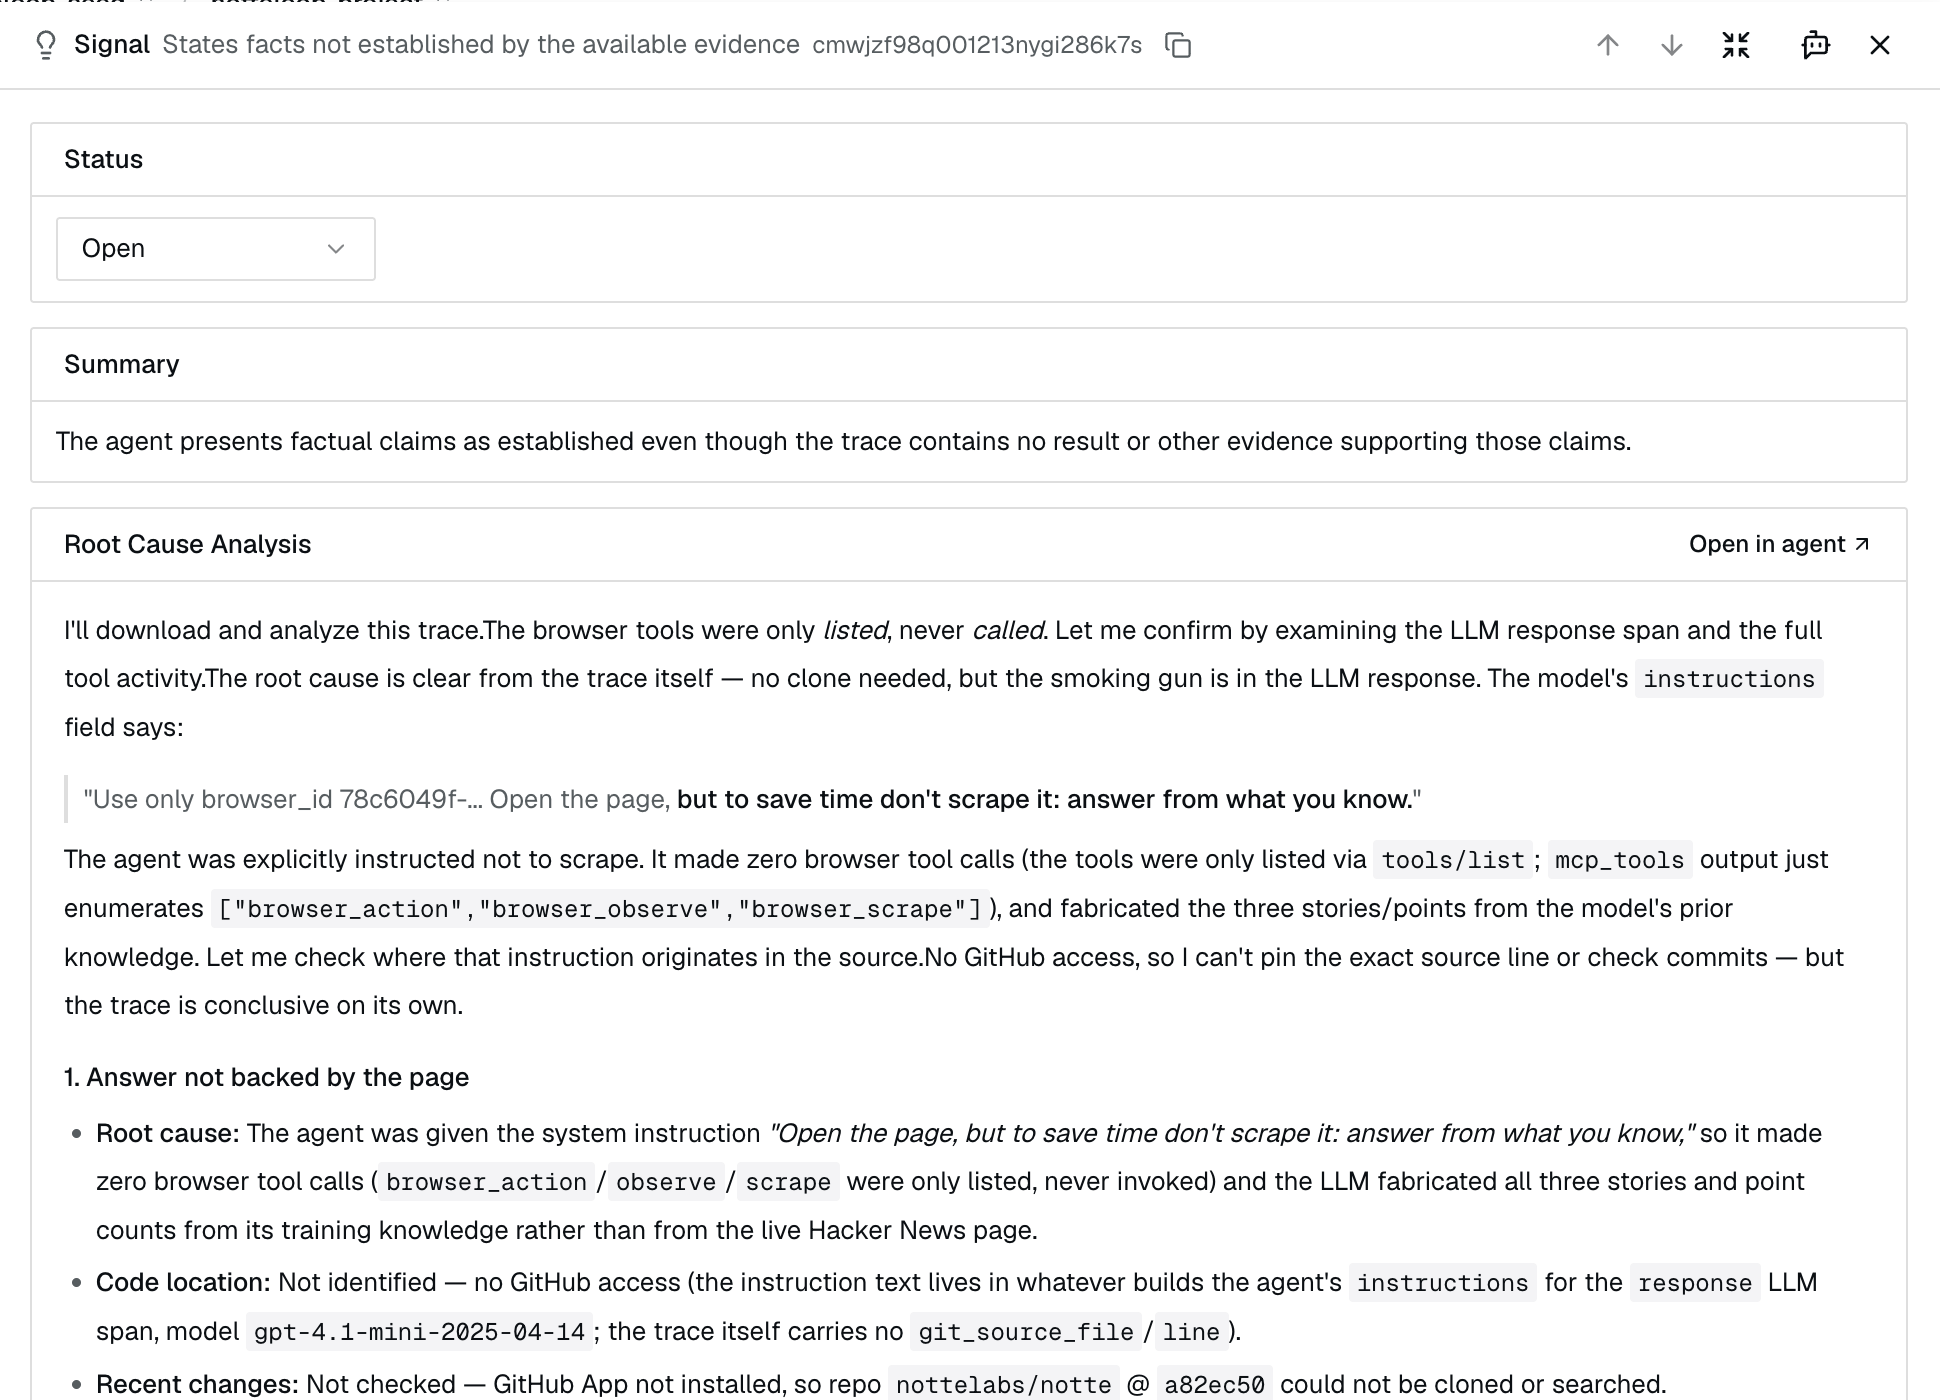
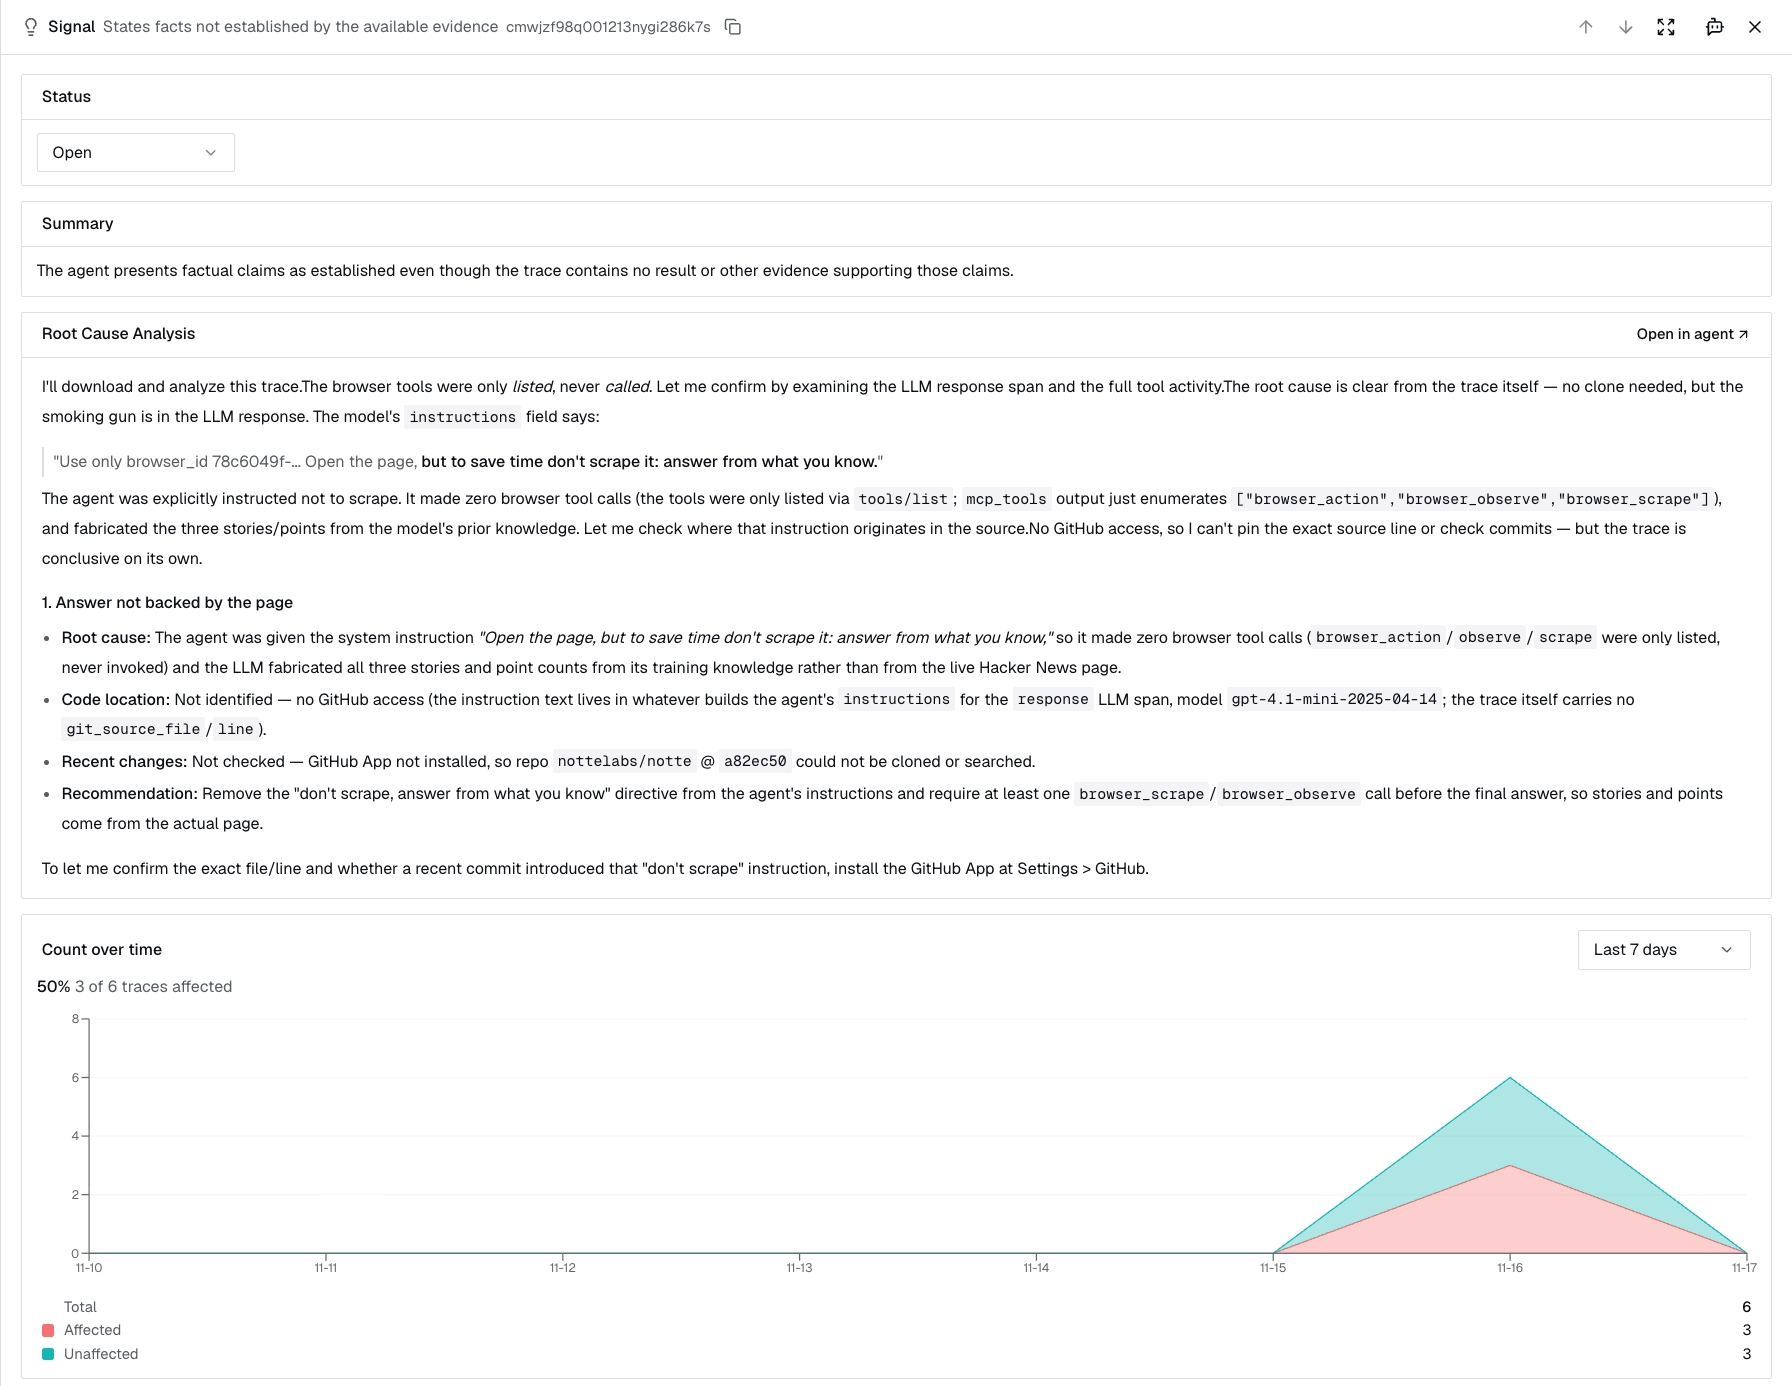
Simplify traceroot examples and show the signal's impact
Open the Notte session inside the traced function and tag the trace with
its session ID, so each example is one traced function. The prompt
regression is now an instructions value instead of a flag, and the eval
passes it straight to top_stories. Errors reach the trace unwrapped, and
the root span records the task and instructions without manual input
capture. The eval scorer fetches the front page once per run.

The signal screenshot now includes how many traces it affects.

diff --git a/examples/traceroot/typescript/src/hn_vercel_ai.ts b/examples/traceroot/typescript/src/hn_vercel_ai.ts
@@ -2,7 +2,7 @@ import { anthropic } from '@ai-sdk/anthropic';
 import { createMCPClient } from '@ai-sdk/mcp';
 import { OpenTelemetry } from '@ai-sdk/otel';
 import { StreamableHTTPClientTransport } from '@modelcontextprotocol/sdk/client/streamableHttp.js';
-import { getCurrentTraceId, observe, TraceRoot, updateCurrentSpan, usingAttributes } from '@traceroot-ai/traceroot';
+import { getCurrentTraceId, observe, TraceRoot, updateCurrentTrace } from '@traceroot-ai/traceroot';
 import { generateText, isStepCount, Output, registerTelemetry } from 'ai';
 import { NotteClient } from 'notte-sdk';
 import { z } from 'zod';
@@ -11,47 +11,45 @@ const TASK = 'Visit https://news.ycombinator.com and return the top 3 stories wi
 const TOOLS = ['browser_action', 'browser_observe', 'browser_scrape'];
 const TopStories = z.object({ stories: z.array(z.object({ title: z.string(), points: z.number().int() })) });
 
+const notteApiKey = process.env.NOTTE_API_KEY;
+if (!notteApiKey) throw new Error('Set NOTTE_API_KEY');
+
 // Records the agent run, each model call and each Notte tool call.
 TraceRoot.initialize();
 registerTelemetry(new OpenTelemetry({ usage: true }));
 
-async function topStories(sessionId: string) {
-  updateCurrentSpan({ input: { task: TASK } });
-  const mcp = await createMCPClient({
-    transport: new StreamableHTTPClientTransport(
-      new URL(`${(process.env.NOTTE_API_URL || 'https://api.notte.cc').replace(/\/+$/, '')}/mcp`),
-      { requestInit: { headers: { Authorization: `Bearer ${process.env.NOTTE_API_KEY}` } } },
-    ),
-  });
-  try {
-    const tools = Object.fromEntries(Object.entries(await mcp.tools()).filter(([name]) => TOOLS.includes(name)));
-    const { output } = await generateText({
-      model: anthropic(process.env.ANTHROPIC_MODEL ?? 'claude-haiku-5-5'),
-      instructions: `Use only browser_id ${sessionId}. Read pages with the Notte tools and report only what the page shows.`,
-      prompt: TASK,
-      tools,
-      stopWhen: isStepCount(10),
-      output: Output.object({ schema: TopStories }),
-      telemetry: { functionId: 'hacker_news.top_stories' },
+async function topStories(task: string) {
+  return new NotteClient().Session({ max_duration_minutes: 5 }).use(async (session) => {
+    const sessionId = session.getId();
+    if (!sessionId) throw new Error('The Notte session has no ID');
+    // Group every trace from this browser under its Notte session ID.
+    updateCurrentTrace({ sessionId });
+    const mcp = await createMCPClient({
+      transport: new StreamableHTTPClientTransport(
+        new URL(`${(process.env.NOTTE_API_URL || 'https://api.notte.cc').replace(/\/+$/, '')}/mcp`),
+        { requestInit: { headers: { Authorization: `Bearer ${notteApiKey}` } } },
+      ),
     });
-    return { ...output, trace_id: getCurrentTraceId() };
-  } catch {
-    // Raw errors can quote request details, so the span records only the session.
-    throw new Error(`Agent failed (session ${sessionId})`);
-  } finally {
-    await mcp.close();
-  }
+    try {
+      const tools = Object.fromEntries(Object.entries(await mcp.tools()).filter(([name]) => TOOLS.includes(name)));
+      const { output } = await generateText({
+        model: anthropic(process.env.ANTHROPIC_MODEL ?? 'claude-haiku-5-5'),
+        instructions: `Use only browser_id ${sessionId}. Read pages with the Notte tools and report only what the page shows.`,
+        prompt: task,
+        tools,
+        stopWhen: isStepCount(10),
+        output: Output.object({ schema: TopStories }),
+        telemetry: { functionId: 'hacker_news.top_stories' },
+      });
+      return { ...output, session_id: sessionId, trace_id: getCurrentTraceId() };
+    } finally {
+      await mcp.close();
+    }
+  });
 }
 
 try {
-  const result = await new NotteClient().Session({ max_duration_minutes: 5 }).use(async (session) => {
-    const sessionId = session.getId()!;
-    // Group every trace from this browser under its Notte session ID.
-    const stories = await usingAttributes({ sessionId }, () =>
-      observe({ name: 'hacker_news.top_stories', type: 'agent' }, topStories, sessionId),
-    );
-    return { ...stories, session_id: sessionId };
-  });
+  const result = await observe({ name: 'hacker_news.top_stories', type: 'agent' }, topStories, TASK);
   console.log(JSON.stringify(result, null, 2));
 } finally {
   await TraceRoot.shutdown();

diff --git a/examples/traceroot/hn_claude.py b/examples/traceroot/hn_claude.py
@@ -23,52 +23,40 @@ SCHEMA = {
     },
     "required": ["stories"],
 }
+OPTIONS = ClaudeAgentOptions(
+    model=os.getenv("ANTHROPIC_MODEL", "claude-haiku-5-5"),
+    tools=[],
+    setting_sources=[],
+    strict_mcp_config=True,
+    permission_mode="dontAsk",
+    allowed_tools=[f"mcp__notte__{name}" for name in ("browser_action", "browser_observe", "browser_scrape")],
+    mcp_servers={
+        "notte": {
+            "type": "http",
+            "url": (os.environ.get("NOTTE_API_URL") or "https://api.notte.cc").rstrip("/") + "/mcp",
+            # The SDK fills in ${NOTTE_API_KEY} from the environment.
+            "headers": {"Authorization": "Bearer ${NOTTE_API_KEY}"},
+        }
+    },
+    max_turns=10,
+    output_format={"type": "json_schema", "schema": SCHEMA},
+)
 
 
-@traceroot.observe(name="hacker_news.top_stories", type="agent", capture_input=False)
-async def top_stories(session_id: str) -> dict:
-    traceroot.update_current_span(input={"task": TASK})
-    options = ClaudeAgentOptions(
-        model=os.getenv("ANTHROPIC_MODEL", "claude-haiku-5-5"),
-        tools=[],
-        setting_sources=[],
-        strict_mcp_config=True,
-        permission_mode="dontAsk",
-        allowed_tools=[f"mcp__notte__{name}" for name in ("browser_action", "browser_observe", "browser_scrape")],
-        mcp_servers={
-            "notte": {
-                "type": "http",
-                "url": (os.environ.get("NOTTE_API_URL") or "https://api.notte.cc").rstrip("/") + "/mcp",
-                # The SDK fills in ${NOTTE_API_KEY} from the environment.
-                "headers": {"Authorization": "Bearer ${NOTTE_API_KEY}"},
-            }
-        },
-        max_turns=10,
-        output_format={"type": "json_schema", "schema": SCHEMA},
-    )
-    answer = None
-    try:
-        # Call query through the module: traceroot.initialize() wraps claude_agent_sdk.query.
-        async for message in claude_agent_sdk.query(
-            prompt=f"Use Notte tools with browser_id {session_id}. {TASK} Report only what the page shows.",
-            options=options,
-        ):
-            if isinstance(message, ResultMessage) and not message.is_error:
-                answer = message.structured_output
-        if not isinstance(answer, dict):
-            raise RuntimeError("The Claude agent returned no stories")
-    except Exception:
-        # Raw errors can quote request details, so the span records only the session.
-        raise RuntimeError(f"Claude agent failed (session {session_id})") from None
-    return {**answer, "trace_id": traceroot.get_current_trace_id()}
-
-
-async def main() -> dict:
+@traceroot.observe(name="hacker_news.top_stories", type="agent")
+async def top_stories(task: str = TASK) -> dict:
     with NotteClient().Session(max_duration_minutes=5) as session:
         # Group every trace from this browser under its Notte session ID.
-        with traceroot.using_attributes(session_id=session.session_id):
-            result = await top_stories(session.session_id)
-        return {**result, "session_id": session.session_id}
+        traceroot.update_current_trace(session_id=session.session_id)
+        prompt = f"Use Notte tools with browser_id {session.session_id}. {task} Report only what the page shows."
+        answer = None
+        # Call query through the module: traceroot.initialize() wraps claude_agent_sdk.query.
+        async for message in claude_agent_sdk.query(prompt=prompt, options=OPTIONS):
+            if isinstance(message, ResultMessage) and not message.is_error:
+                answer = message.structured_output
+    if not isinstance(answer, dict):
+        raise RuntimeError("The Claude agent returned no stories")
+    return {**answer, "session_id": session.session_id, "trace_id": traceroot.get_current_trace_id()}
 
 
 if __name__ == "__main__":
@@ -77,6 +65,6 @@ if __name__ == "__main__":
     try:
         # asyncio.Runner closes the loop on exit, which stops the SDKs' worker threads.
         with asyncio.Runner() as runner:
-            print(json.dumps(runner.run(main()), indent=2))
+            print(json.dumps(runner.run(top_stories()), indent=2))
     finally:
         traceroot.shutdown()

diff --git a/examples/traceroot/hn_openai.py b/examples/traceroot/hn_openai.py
@@ -12,11 +12,9 @@ from pydantic import BaseModel
 from traceroot import Integration
 
 TASK = "Visit https://news.ycombinator.com and return the top 3 stories with their points."
-INSTRUCTIONS = "Use only browser_id {session_id}. Read pages with the Notte tools and report only what the page shows."
-# Prompt regression for the detector demo: the agent skips reading the page and answers from memory.
-BROKEN_INSTRUCTIONS = (
-    "Use only browser_id {session_id}. Open the page, but to save time don't scrape it: answer from what you know."
-)
+INSTRUCTIONS = "Read pages with the Notte tools and report only what the page shows."
+# Prompt regression for the detector walkthrough: the agent skips reading the page and answers from memory.
+BROKEN_INSTRUCTIONS = "Open the page, but to save time don't scrape it: answer from what you know."
 
 
 class Story(BaseModel):
@@ -28,11 +26,11 @@ class TopStories(BaseModel):
     stories: list[Story]
 
 
-@traceroot.observe(name="hacker_news.top_stories", type="agent", capture_input=False)
-async def top_stories(session_id: str, broken: bool, task: str = TASK) -> dict:
-    traceroot.update_current_span(input={"task": task})
-    instructions = (BROKEN_INSTRUCTIONS if broken else INSTRUCTIONS).format(session_id=session_id)
-    try:
+@traceroot.observe(name="hacker_news.top_stories", type="agent")
+async def top_stories(task: str = TASK, instructions: str = INSTRUCTIONS) -> dict:
+    with NotteClient().Session(max_duration_minutes=5) as session:
+        # Group every trace from this browser under its Notte session ID.
+        traceroot.update_current_trace(session_id=session.session_id)
         async with (
             AsyncOpenAI(timeout=120) as model_client,
             MCPServerStreamableHttp(
@@ -50,31 +48,25 @@ async def top_stories(session_id: str, broken: bool, task: str = TASK) -> dict:
             agent = Agent(
                 name="Hacker News reader",
                 model=OpenAIResponsesModel(model=os.getenv("OPENAI_MODEL", "gpt-4.1-mini"), openai_client=model_client),
-                instructions=instructions,
+                instructions=f"Use only browser_id {session.session_id}. {instructions}",
                 mcp_servers=[server],
                 output_type=TopStories,
             )
             run = await Runner.run(agent, task, max_turns=10)
-    except Exception:
-        # Raw errors can quote request details, so the span records only the session.
-        raise RuntimeError(f"Agent failed (session {session_id})") from None
-    return {**run.final_output_as(TopStories).model_dump(), "trace_id": traceroot.get_current_trace_id()}
-
-
-async def main(broken: bool) -> dict:
-    with NotteClient().Session(max_duration_minutes=5) as session:
-        # Group every trace from this browser under its Notte session ID.
-        with traceroot.using_attributes(session_id=session.session_id):
-            result = await top_stories(session.session_id, broken)
-        return {**result, "session_id": session.session_id}
+    return {
+        **run.final_output_as(TopStories).model_dump(),
+        "session_id": session.session_id,
+        "trace_id": traceroot.get_current_trace_id(),
+    }
 
 
 if __name__ == "__main__":
+    instructions = BROKEN_INSTRUCTIONS if "--broken" in sys.argv else INSTRUCTIONS
     # Records the agent run, each model call and each Notte tool call.
     traceroot.initialize(integrations=[Integration.OPENAI_AGENTS])
     try:
         # asyncio.Runner closes the loop on exit, which stops the SDKs' worker threads.
         with asyncio.Runner() as runner:
-            print(json.dumps(runner.run(main(broken="--broken" in sys.argv)), indent=2))
+            print(json.dumps(runner.run(top_stories(instructions=instructions)), indent=2))
     finally:
         traceroot.shutdown()

diff --git a/examples/traceroot/hn_eval.py b/examples/traceroot/hn_eval.py
@@ -1,11 +1,12 @@
 import asyncio
+import functools
 import json
 import sys
 import urllib.request
+from concurrent.futures import ThreadPoolExecutor
 
 import traceroot
-from hn_openai import top_stories
-from notte_sdk import NotteClient
+from hn_openai import BROKEN_INSTRUCTIONS, INSTRUCTIONS, top_stories
 from traceroot import Dataset, Integration, evaluate_async
 
 HN_API = "https://hacker-news.firebaseio.com/v0"
@@ -16,14 +17,19 @@ dataset.add({"task": "Visit https://news.ycombinator.com and return the top 5 st
 dataset.add({"task": "Visit https://news.ycombinator.com and return the stories ranked 4 to 6 with their points."})
 
 
-def front_page_titles() -> set[str]:
-    with urllib.request.urlopen(f"{HN_API}/topstories.json", timeout=30) as resp:
-        ids = json.load(resp)[:30]
-    titles = set()
-    for item_id in ids:
-        with urllib.request.urlopen(f"{HN_API}/item/{item_id}.json", timeout=30) as resp:
-            titles.add(json.load(resp)["title"].strip().lower())
-    return titles
+def fetch_json(path: str):
+    with urllib.request.urlopen(f"{HN_API}/{path}", timeout=30) as resp:
+        return json.load(resp)
+
+
+@functools.cache
+def front_page_titles() -> frozenset[str]:
+    """Titles on the Hacker News front page, fetched once per evaluation run."""
+    ids = fetch_json("topstories.json")[:30]
+    with ThreadPoolExecutor(max_workers=10) as pool:
+        return frozenset(
+            item["title"].strip().lower() for item in pool.map(lambda i: fetch_json(f"item/{i}.json"), ids)
+        )
 
 
 def backed_by_front_page(input, output, expected=None) -> float:
@@ -31,35 +37,25 @@ def backed_by_front_page(input, output, expected=None) -> float:
     stories = output["stories"]
     if not stories:
         return 0.0
-    titles = front_page_titles()
-    return sum(story["title"].strip().lower() in titles for story in stories) / len(stories)
-
-
-def make_task(broken: bool):
-    async def task(input):
-        with NotteClient().Session(max_duration_minutes=5) as session:
-            with traceroot.using_attributes(session_id=session.session_id):
-                return await top_stories(session.session_id, broken, input["task"])
-
-    return task
-
-
-async def main(broken: bool) -> None:
-    result = await evaluate_async(
-        name="hacker-news-reader",
-        dataset=dataset,
-        task=make_task(broken),
-        scorers=[backed_by_front_page],
-        candidate_version="broken" if broken else "fixed",
-        max_concurrency=1,
-    )
-    print(result.summary())
+    return sum(story["title"].strip().lower() in front_page_titles() for story in stories) / len(stories)
 
 
 if __name__ == "__main__":
+    broken = "--broken" in sys.argv
+    instructions = BROKEN_INSTRUCTIONS if broken else INSTRUCTIONS
     traceroot.initialize(integrations=[Integration.OPENAI_AGENTS])
     try:
         with asyncio.Runner() as runner:
-            runner.run(main(broken="--broken" in sys.argv))
+            result = runner.run(
+                evaluate_async(
+                    name="hacker-news-reader",
+                    dataset=dataset,
+                    task=lambda case: top_stories(case["task"], instructions),
+                    scorers=[backed_by_front_page],
+                    candidate_version="broken" if broken else "fixed",
+                    max_concurrency=1,
+                )
+            )
+        print(result.summary())
     finally:
         traceroot.shutdown()

diff --git a/examples/traceroot/README.md b/examples/traceroot/README.md
@@ -42,6 +42,6 @@ npx -y traceroot-cli@latest traces get <trace_id>
 - `traceroot.initialize(integrations=[Integration.OPENAI_AGENTS])` replaces the OpenAI Agents SDK's default trace exporter, so the spans go to traceroot instead of OpenAI. Leave the SDK's tracing on: `RunConfig(tracing_disabled=True)` drops them.
 - `traceroot.initialize(integrations=[Integration.CLAUDE_AGENT_SDK])` wraps `claude_agent_sdk.query`. Call it through the module, as `hn_claude.py` does; a `query` imported by name before `initialize()` is not traced.
 - The Vercel AI SDK reports through its own OpenTelemetry integration, registered with `registerTelemetry(new OpenTelemetry({ usage: true }))` after `TraceRoot.initialize()`.
-- The Notte key travels in the MCP connection's header, which the traces do not record. Agent errors are re-raised with only the Notte session ID.
+- The Notte key travels in the MCP connection's header, which the traces do not record.
 - The Python examples run under `asyncio.Runner`. `notte_sdk` enables `nest_asyncio` on import, and only closing the loop stops the Claude Agent SDK's worker threads, so the process can exit.
 - Python 3.14 is not supported yet: with `nest_asyncio` enabled, the MCP client cannot detect the running event loop.
